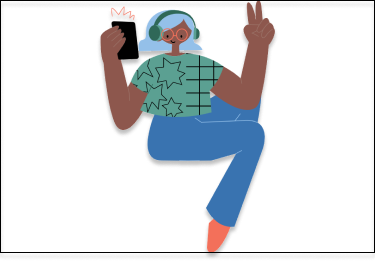
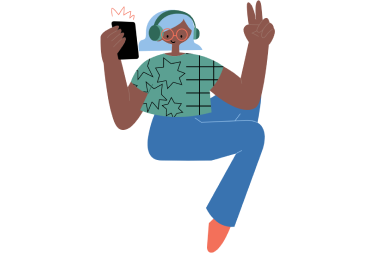
파일수정

diff --git a/css/variables.css b/css/variables.css
@@ -3,6 +3,7 @@
   --horizontal-space: 25px;
   --main-border: 1px solid rgba(0, 0, 0, 0.2);
 }
+/* 하단 버튼 */
 .button {
   display: flex;
   flex-direction: row;
@@ -17,4 +18,70 @@
   font-weight: 500;
   margin-top: 53px;
   margin-left: 33px;
+}
+.common-button {
+  display: flex;
+  justify-content: center;
+  margin-top: 32px;
+}
+
+.common-button button {
+  width: 309px;
+  height: 56px;
+  background-color: #e3562a;
+  border: #e3562a;
+  color: white;
+  border-radius: 16px;
+  font-size: 16px;
+  font-weight: 500;
+}
+
+.back-round-btn {
+  border-radius: 50%;
+  border: 1px solid #bebab3;
+  box-sizing: border-box;
+  width: 40px;
+  height: 40px;
+  text-align: center;
+  line-height: 35px;
+  font-size: 22px;
+}
+#round {
+  border-radius: 50%;
+  border: 1px solid #bebab3;
+  box-sizing: border-box;
+  width: 40px;
+  height: 40px;
+  display: table-cell;
+  vertical-align: middle;
+  text-align: center;
+}
+
+/* 스크린 탑 뒤로가기 버튼, 제목 */
+.screen-main-text {
+  font-size: 24px;
+  font-weight: 500;
+
+  height: 40px;
+  line-height: 40px;
+}
+.screen-top {
+  display: flex;
+  justify-content: space-between;
+  padding: 0 16px;
+  margin-top: 14px;
+}
+.back-round-empty {
+  width: 40px;
+}
+.back-round-empty {
+  width: 40px;
+}
+
+.intro-skip-text {
+  margin-top: 31px;
+  font-weight: 500;
+  font-size: 14px;
+  padding: 0 16px;
+  text-align: right;
 }

diff --git a/html/paymentAdded.html b/html/paymentAdded.html
@@ -21,19 +21,26 @@
     <!-- 상단 status bar -->
 
     <!-- main screen -->
-    <main class="main-screen payment-added-screen">payment</main>
+    <div class="screen-top">
+      <div class="back-round-btn">&#60;</div>
+      <div class="screen-main-text">Payment</div>
+      <div class="back-round-empty"></div>
+    </div>
 
-    <div class="paymentAdded-screen">
+    <div class="payment-added-screen">
       <img src="../images/paymentAdded.png" class="" />
     </div>
 
-    <div class="paymentAdded-title">Payment method added</div>
-    <div class="paymentAdded-text items-center">
+    <div class="payment-added-title">Payment method added</div>
+    <div class="payment-added-text items-center">
       You can buy the course now<br />
       Continue to payment
     </div>
+    <div class="common-button payment-added-bottom">
+      <button>Continue</button>
+    </div>
 
-    <div class="button">Continue</div>
+    <!-- <div class="button">Continue</div> -->
 
     <!-- main screen -->
 

diff --git a/html/intro-3.html b/html/intro-3.html
@@ -20,19 +20,22 @@
     </div>
     <!-- 상단 status bar -->
 
-    <!-- main screen -->
+    <div class="intro-skip-text">Skip</div>
 
-    <div class="intro-screen">
+    <!-- main screen -->
+    <div class="intro-3-screen">
       <img src="../images/intro-3.png" class="" />
     </div>
 
-    <div class="intro-title">Improve your skills</div>
-    <div class="intro-text items-center">
+    <div class="intro-3-title">Improve your skills</div>
+    <div class="intro-3-text items-center">
       Quarantine is the perfect time to spend your<br />
       day learning something new, from anywhere!
     </div>
 
-    <div class="button">Let's Start</div>
+    <div class="common-button intro-3-bottom">
+      <button>Let's Start</button>
+    </div>
 
     <!-- main screen -->
 

diff --git a/html/intro-1.html b/html/intro-1.html
@@ -19,23 +19,25 @@
       </div>
     </div>
     <!-- 상단 status bar -->
-
+    <div class="intro-skip-text">Skip</div>
     <!-- main screen -->
 
-    <div class="introB-screen">
+    <div class="intro-1-screen">
       <img src="../images/intro-1.png" class="" />
     </div>
 
-    <div class="introB-title">
+    <div class="intro-1-title">
       Learn anytime<br />
       and anywhere
     </div>
-    <div class="introB-text items-center">
+    <div class="intro-1-text items-center">
       Quarantine is the perfect time to spend your<br />
       day learning something new, from anywhere!
     </div>
 
-    <div class="button">Next</div>
+    <div class="common-button intro-3-bottom">
+      <button>Let's Start</button>
+    </div>
 
     <!-- main screen -->
 

diff --git a/html/intro-2.html b/html/intro-2.html
@@ -19,23 +19,24 @@
       </div>
     </div>
     <!-- 상단 status bar -->
-
+    <div class="intro-skip-text">Skip</div>
     <!-- main screen -->
-
-    <div class="introA-screen">
+    <div class="intro-2-screen">
       <img src="../images/intro-2.png" class="" />
     </div>
 
-    <div class="introA-title">
+    <div class="intro-2-title">
       Find a course<br />
       for you
     </div>
-    <div class="introA-text items-center">
+    <div class="intro-2-text items-center">
       Quarantine is the perfect time to spend your<br />
       day learning something new, from anywhere!
     </div>
 
-    <div class="button">Next</div>
+    <div class="common-button intro-2-bottom">
+      <button>Let's Start</button>
+    </div>
 
     <!-- main screen -->
 

diff --git a/css/components/paymentAdded.css b/css/components/paymentAdded.css
@@ -1,14 +1,11 @@
 .payment-added-screen {
-  justify-content: center;
-  margin-bottom: 100px;
-  font-size: 24px;
-}
-
-.paymentAdded-screen {
-  justify-content: center;
   display: flex;
+  justify-content: center;
+  font-size: 24px;
+  margin-top: 131px;
+  margin-bottom: 32px;
 }
-.paymentAdded-title {
+.payment-added-title {
   font-size: 24px;
   font-weight: 500;
   color: #3c3a36;
@@ -16,9 +13,12 @@
   margin-top: 32px;
   margin-bottom: 8px;
 }
-.paymentAdded-text {
+.payment-added-text {
   font: size 14px;
   font-weight: 400;
   color: #78746d;
   text-align: center;
+}
+.payment-added-bottom {
+  padding-bottom: 146px;
 }

diff --git a/css/components/intro-3.css b/css/components/intro-3.css
@@ -1,20 +1,25 @@
-.intro-screen {
+.intro-3-screen {
   justify-content: center;
   display: flex;
-  margin-top: 184px;
+  margin-top: 107px;
 }
-.intro-title {
+.intro-3-title {
   font-size: 24px;
   font-weight: 500;
   color: #3c3a36;
   text-align: center;
-  margin-top: 16px;
+  margin-top: 56px;
   margin-bottom: 8px;
 }
-.intro-text {
+.intro-3-text {
   font-size: 14px;
   font-weight: 400;
   color: #78746d;
   text-align: center;
   margin-bottom: 98px;
+  line-height: 21px;
+}
+
+.intro-3-bottom {
+  padding-bottom: 50px;
 }

diff --git a/css/components/intro-2.css b/css/components/intro-2.css
@@ -1,9 +1,9 @@
-.introA-screen {
+.intro-2-screen {
   justify-content: center;
   display: flex;
-  margin-top: 184px;
+  margin-top: 112px;
 }
-.introA-title {
+.intro-2-title {
   font-size: 24px;
   font-weight: 500;
   color: #3c3a36;
@@ -11,10 +11,14 @@
   margin-top: 16px;
   margin-bottom: 8px;
 }
-.introA-text {
+.intro-2-text {
   font-size: 14px;
   font-weight: 400;
   color: #78746d;
   text-align: center;
-  margin-bottom: 98px;
+  margin-bottom: 94px;
+  line-height: 21px;
+}
+.intro-2-bottom {
+  padding-bottom: 50px;
 }

diff --git a/css/components/saved.css b/css/components/saved.css
@@ -12,13 +12,7 @@
   line-height: 35px;
   font-size: 22px;
 }
-.saved-screen-main-text {
-  font-size: 24px;
-  font-weight: 500;
 
-  height: 40px;
-  line-height: 40px;
-}
 #round {
   border-radius: 50%;
   border: 1px solid #bebab3;
@@ -29,15 +23,7 @@
   vertical-align: middle;
   text-align: center;
 }
-.saved-screen-top {
-  display: flex;
-  justify-content: space-between;
-  padding: 0 16px;
-  margin-top: 14px;
-}
-.back-round-empty {
-  width: 40px;
-}
+
 .saved-screen {
   margin-bottom: 100px;
   margin-top: 131px;

diff --git a/css/components/intro-1.css b/css/components/intro-1.css
@@ -1,9 +1,9 @@
-.introB-screen {
+.intro-1-screen {
   justify-content: center;
   display: flex;
-  margin-top: 184px;
+  margin-top: 112px;
 }
-.introB-title {
+.intro-1-title {
   font-size: 24px;
   font-weight: 500;
   color: #3c3a36;
@@ -11,10 +11,14 @@
   margin-top: 16px;
   margin-bottom: 8px;
 }
-.introB-text {
+.intro-1-text {
   font-size: 14px;
   font-weight: 400;
   color: #78746d;
   text-align: center;
   margin-bottom: 98px;
+  line-height: 21px;
+}
+.intro-3-bottom {
+  padding-bottom: 50px;
 }

diff --git a/html/saved.html b/html/saved.html
@@ -21,10 +21,9 @@
     <!-- 상단 status bar -->
 
     <!-- main screen -->
-
-    <div class="saved-screen-top">
+    <div class="screen-top">
       <div class="back-round-btn">&#60;</div>
-      <div class="saved-screen-main-text">Saved</div>
+      <div class="screen-main-text">Saved</div>
       <div class="back-round-empty"></div>
     </div>
 

diff --git a/css/styles.css b/css/styles.css
@@ -11,7 +11,7 @@
 @import "./components/No Payment.css";
 @import "./components/No Saved.css";
 @import "./components/Results.css"; */
-@import "./components/productDetail.css";
+/* @import "./components/productDetail.css"; */
 
 body {
   font-family: "Open Sans", sans-serif;
